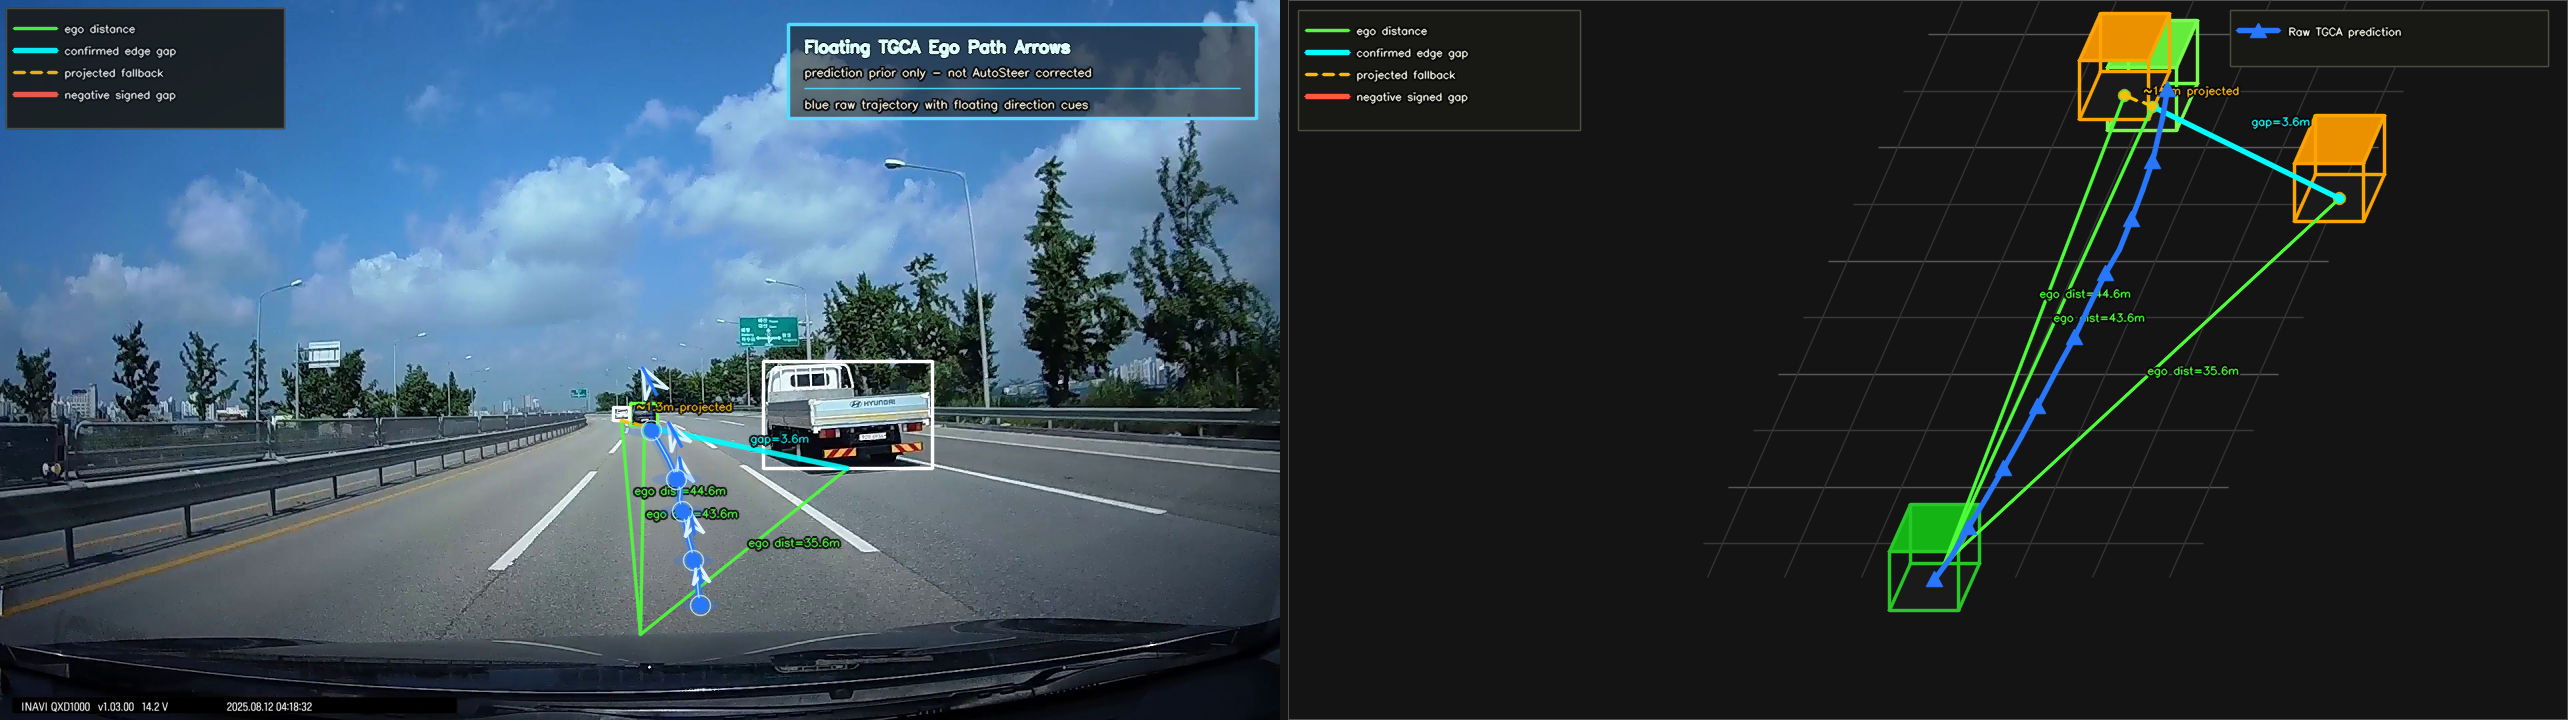
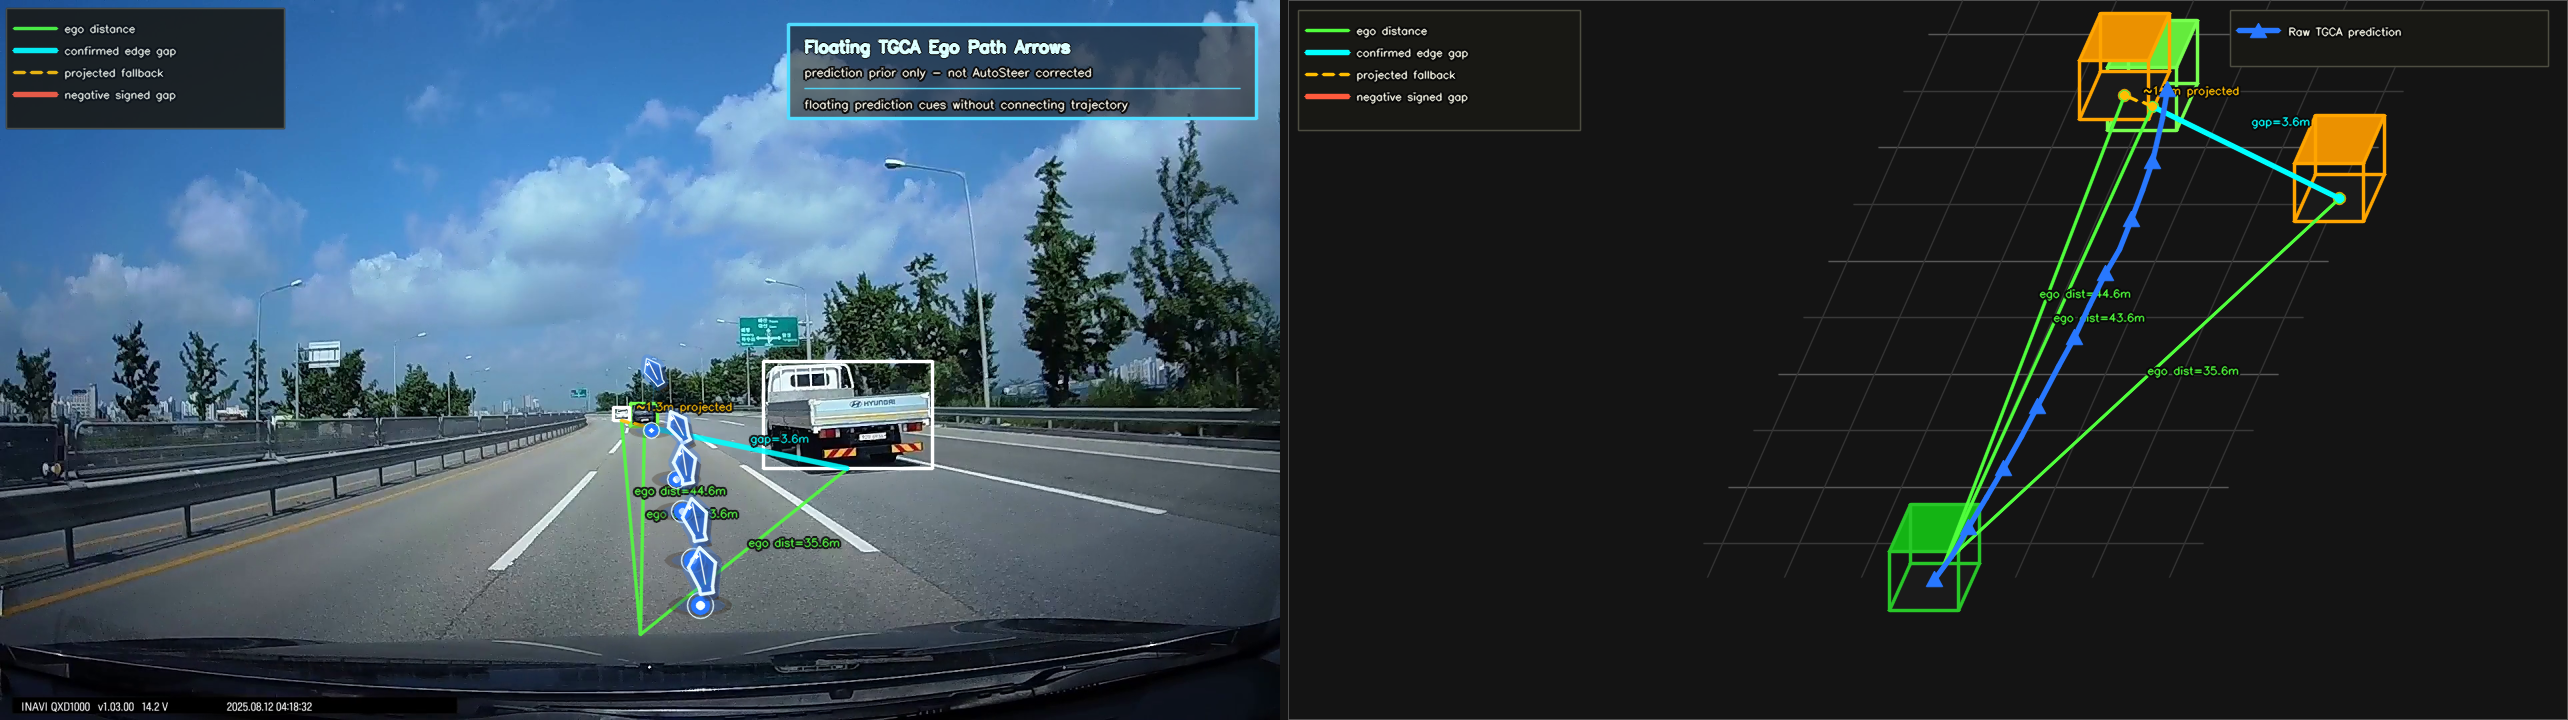
Align VLA copy with current visualizations

Changed region(s): [[0.2492, 0.4889, 0.2804, 0.8556], [0.3115, 0.1222, 0.4361, 0.1528]]

diff --git a/index.html b/index.html
@@ -12,26 +12,27 @@
         <a href="#stage-1">원본</a>
         <a href="#stage-2">객체 탐지</a>
         <a href="#stage-3">Edge + 3D</a>
-        <a href="#stage-4">궤적 예측</a>
+        <a href="#stage-4">TGCA Path</a>
         <a href="#stage-5">5초 Horizon</a>
       </nav>
 
       <div class="hero-overlay">
         <div class="hero-copy">
-          <h1>전방 객체 맥락에서 TGCA 기반 ego 궤적 prior까지</h1>
+          <h1>전방 객체 맥락에서 TGCA ego prediction prior까지</h1>
           <p class="lead">
-            단안 dashcam 프레임이 차량 탐지, 관계 그래프, pseudo-3D 맥락, 해석 가능한 ego trajectory prior로
-            변환되는 과정을 보여줍니다.
+            단안 dashcam 프레임이 차량 탐지, ego distance와 bbox gap edge, pseudo-3D 맥락,
+            TGCA 기반 blue prediction cue와 horizon prior로 변환되는 과정을 보여줍니다.
           </p>
           <div class="hero-badges" aria-label="pipeline summary">
             <span>Monocular input</span>
             <span>Vehicle detection</span>
-            <span>Edge graph</span>
+            <span>Gap edges</span>
             <span>Pseudo-3D</span>
-            <span>TGCA-based prior</span>
+            <span>Blue cue prior</span>
           </div>
           <div class="claim-note">
-            시각화 수준의 결과 · pseudo-metric 거리 추정 · 궤적은 control command, driving decision, ground-truth future가 아닌 prior
+            시각화 수준의 결과 · ego distance/gap은 pseudo-metric 추정 · blue cue는 control command,
+            driving decision, ground-truth future가 아닌 prior
           </div>
           <button
             class="hero-zoom image-button"
@@ -57,7 +58,7 @@
           </article>
           <article>
             <strong>Graph</strong>
-            <span>ego-vehicle / vehicle-to-vehicle edge 구성</span>
+            <span>ego distance / confirmed gap / projected fallback edge 구성</span>
           </article>
           <article>
             <strong>Scene</strong>
@@ -65,7 +66,7 @@
           </article>
           <article>
             <strong>Output</strong>
-            <span>TGCA 기반 궤적 추정과 refined trajectory prior</span>
+            <span>TGCA 기반 blue prediction cue와 1-5s horizon prior</span>
           </article>
         </div>
       </section>
@@ -87,8 +88,8 @@
             <img
               src="./assets/01_original_image.png"
               alt="처리 전 원본 dashcam 프레임"
-              width="2560"
-              height="1440"
+              width="1280"
+              height="720"
             />
           </button>
           <figcaption>전방 단안 dashcam 입력 프레임입니다.</figcaption>
@@ -113,8 +114,8 @@
               src="./assets/02_original_with_detected_bbox.png"
               alt="전방 차량 bbox가 표시된 dashcam 프레임"
               loading="lazy"
-              width="2560"
-              height="1440"
+              width="1280"
+              height="720"
             />
           </button>
           <figcaption>탐지된 차량 bbox는 interaction graph의 observation으로 사용됩니다.</figcaption>
@@ -124,11 +125,13 @@
       <section class="stage" id="stage-3" data-stage="03">
         <div class="stage-copy">
           <span class="stage-number">03</span>
-          <h2>bbox + edge graph + pseudo-3D 장면</h2>
-          <p>ego-to-vehicle 및 vehicle-to-vehicle 관계를 추정 pseudo-metric 거리와 함께 시각화합니다.</p>
+          <h2>bbox + gap edges + pseudo-3D 장면</h2>
+          <p>ego distance, confirmed edge gap, projected fallback 등 bbox 기반 거리 단서를 2D와 pseudo-3D 뷰에 함께 표시합니다.</p>
           <ul class="legend">
-            <li><span class="swatch green"></span>초록색: ego-to-vehicle edge</li>
-            <li><span class="swatch cyan"></span>하늘색/주황색: vehicle-to-vehicle edge</li>
+            <li><span class="swatch green"></span>초록색: ego distance</li>
+            <li><span class="swatch cyan"></span>하늘색: confirmed edge gap</li>
+            <li><span class="swatch yellow"></span>노란 점선: projected fallback</li>
+            <li><span class="swatch red"></span>빨간색: negative signed gap</li>
             <li><span class="swatch dark"></span>오른쪽 패널: pseudo-3D 맥락</li>
           </ul>
         </div>
@@ -137,29 +140,29 @@
             class="image-button"
             type="button"
             data-image="./assets/03_bbox_edges_and_3d.png"
-            data-title="bbox, edge 연결, pseudo-3D graph"
-            aria-label="bbox, edge 연결, pseudo-3D graph 이미지 확대 보기"
+            data-title="bbox, gap edge, pseudo-3D graph"
+            aria-label="bbox, gap edge, pseudo-3D graph 이미지 확대 보기"
           >
             <img
               src="./assets/03_bbox_edges_and_3d.png"
-              alt="bbox와 edge 관계, pseudo-3D 장면이 함께 표시된 시각화"
+              alt="bbox와 distance/gap edge, pseudo-3D 장면이 함께 표시된 시각화"
               loading="lazy"
-              width="2560"
-              height="1440"
+              width="2568"
+              height="720"
             />
           </button>
-          <figcaption>edge는 대략적인 pseudo-metric 거리 단서를 보여주며, calibrated 3D reconstruction은 아닙니다.</figcaption>
+          <figcaption>distance와 gap edge는 bbox 기반 pseudo-metric 단서를 보여주며, calibrated 3D reconstruction은 아닙니다.</figcaption>
         </figure>
       </section>
 
       <section class="stage" id="stage-4" data-stage="04">
         <div class="stage-copy">
           <span class="stage-number">04</span>
-          <h2>TGCA 기반 궤적 prior</h2>
-          <p>TGCA 기반 temporal interaction modeling을 통해 future ego trajectory prior를 추정합니다.</p>
+          <h2>TGCA floating ego prediction cues</h2>
+          <p>TGCA 출력의 raw prediction을 파란 floating direction cue로 표시합니다. 2D 뷰에서는 cue들을 연결한 궤적을 그리지 않고, 오른쪽 pseudo-3D 패널에는 raw TGCA prediction line을 함께 보여줍니다.</p>
           <ul class="legend">
-            <li><span class="swatch red"></span>빨간색: raw TGCA trajectory</li>
-            <li><span class="swatch pink"></span>핑크색: refined trajectory prior</li>
+            <li><span class="swatch blue"></span>파란색: raw TGCA prediction / floating direction cue</li>
+            <li><span class="swatch cyan"></span>상단 HUD: without connecting trajectory, not AutoSteer corrected</li>
           </ul>
         </div>
         <figure class="visual-card">
@@ -167,27 +170,30 @@
             class="image-button"
             type="button"
             data-image="./assets/04-1_bbox_edges_predicted_ego_trajectory_and_3d_hud.png"
-            data-title="TGCA raw trajectory와 refined trajectory prior의 3D 표현"
-            aria-label="TGCA raw trajectory와 refined trajectory prior 이미지 확대 보기"
+            data-title="TGCA floating prediction cues의 2D 및 pseudo-3D 표현"
+            aria-label="TGCA floating prediction cues 이미지 확대 보기"
           >
             <img
               src="./assets/04-1_bbox_edges_predicted_ego_trajectory_and_3d_hud.png"
-              alt="TGCA raw trajectory와 refined trajectory prior가 표시된 pseudo-3D 시각화"
+              alt="파란 TGCA floating prediction cues가 표시된 2D 및 pseudo-3D 시각화"
               loading="lazy"
-              width="2560"
-              height="1440"
+              width="2568"
+              height="720"
             />
           </button>
-          <figcaption>TGCA raw trajectory와 시각화 수준의 refined trajectory prior를 비교합니다.</figcaption>
+          <figcaption>파란 floating cue는 TGCA raw prediction prior를 나타내며, 조향 제어 또는 보정된 planning 결과가 아닙니다.</figcaption>
         </figure>
       </section>
 
       <section class="stage final" id="stage-5" data-stage="05">
         <div class="stage-copy">
           <span class="stage-number">05</span>
-          <h2>1초부터 5초까지 ego trajectory horizon</h2>
-          <p>future ego trajectory prior를 1초 간격 marker로 시각화합니다.</p>
-          <div class="time-strip" aria-label="시간 marker">
+          <h2>1초부터 5초까지 TGCA horizon cues</h2>
+          <p>future ego horizon prior를 파란 elevated cue로 표시하고, 오른쪽 pseudo-3D 패널에는 1초부터 5초까지의 horizon label을 함께 보여줍니다.</p>
+          <ul class="legend">
+            <li><span class="swatch blue"></span>파란색: horizon label과 elevated direction cue</li>
+          </ul>
+          <div class="time-strip" aria-label="horizon label">
             <span>1s</span><span>2s</span><span>3s</span><span>4s</span><span>5s</span>
           </div>
         </div>
@@ -196,28 +202,28 @@
             class="image-button"
             type="button"
             data-image="./assets/05-1_ego_trajectory_1s_to_5s_horizon_hud.png"
-            data-title="1초부터 5초까지 ego trajectory horizon"
-            aria-label="1초부터 5초까지 ego trajectory horizon 이미지 확대 보기"
+            data-title="1초부터 5초까지 TGCA horizon cues"
+            aria-label="1초부터 5초까지 TGCA horizon cues 이미지 확대 보기"
           >
             <img
               src="./assets/05-1_ego_trajectory_1s_to_5s_horizon_hud.png"
-              alt="1초부터 5초까지 ego trajectory horizon marker가 표시된 시각화"
+              alt="1초부터 5초까지 파란 TGCA horizon cue와 label이 표시된 시각화"
               loading="lazy"
-              width="2560"
-              height="1440"
+              width="2568"
+              height="720"
             />
           </button>
-          <figcaption>1초부터 5초까지의 trajectory-prior horizon 예시입니다. future ground-truth label은 아닙니다.</figcaption>
+          <figcaption>파란 cue와 1s-5s label은 TGCA horizon prior 예시입니다. future ground-truth label은 아닙니다.</figcaption>
         </figure>
       </section>
 
       <section class="takeaway" aria-labelledby="takeaway-title">
         <p class="section-kicker">Takeaway</p>
-        <h2 id="takeaway-title">전방 객체 맥락에서 해석 가능한 ego trajectory prior로</h2>
+        <h2 id="takeaway-title">전방 객체 맥락에서 해석 가능한 ego prediction prior로</h2>
         <p>
-          이 페이지는 시각화 수준의 연구 결과를 보여줍니다. 탐지된 차량 맥락을 graph relation으로 구성하고,
-          pseudo-3D 맥락으로 투영한 뒤, TGCA 기반 ego trajectory prior를 형성합니다. 이 결과는 validated future label,
-          planner output, autonomous-driving control signal이 아니라 해석 가능한 prior로 읽어야 합니다.
+          이 페이지는 시각화 수준의 연구 결과를 보여줍니다. 탐지된 차량 맥락을 ego distance와 bbox gap relation으로 구성하고,
+          pseudo-3D 맥락으로 투영한 뒤, TGCA 기반 blue prediction/horizon cue를 표시합니다. 이 결과는 validated future label,
+          planner output, autonomous-driving control signal이 아니라 해석 가능한 prediction prior로 읽어야 합니다.
         </p>
       </section>
     </main>

diff --git a/styles.css b/styles.css
@@ -4,6 +4,8 @@
   --line: rgba(22, 33, 27, 0.16);
   --green: #49ee58;
   --cyan: #52dbe7;
+  --yellow: #ffc400;
+  --blue: #2f80ff;
   --red: #ed302d;
   --pink: #ff69b4;
   --charcoal: #17201d;
@@ -125,7 +127,7 @@ h1,
 h2 {
   margin: 0;
   line-height: 1.04;
-  letter-spacing: -0.055em;
+  letter-spacing: 0;
   overflow-wrap: anywhere;
 }
 
@@ -175,7 +177,7 @@ h2 {
   border-radius: 999px;
   font-size: 0.82rem;
   font-weight: 800;
-  letter-spacing: 0.04em;
+  letter-spacing: 0;
   text-transform: uppercase;
 }
 
@@ -362,6 +364,8 @@ main {
 
 .green { background: var(--green); }
 .cyan { background: var(--cyan); }
+.yellow { background: var(--yellow); }
+.blue { background: var(--blue); }
 .red { background: var(--red); }
 .pink { background: var(--pink); }
 .dark { background: var(--charcoal); }
